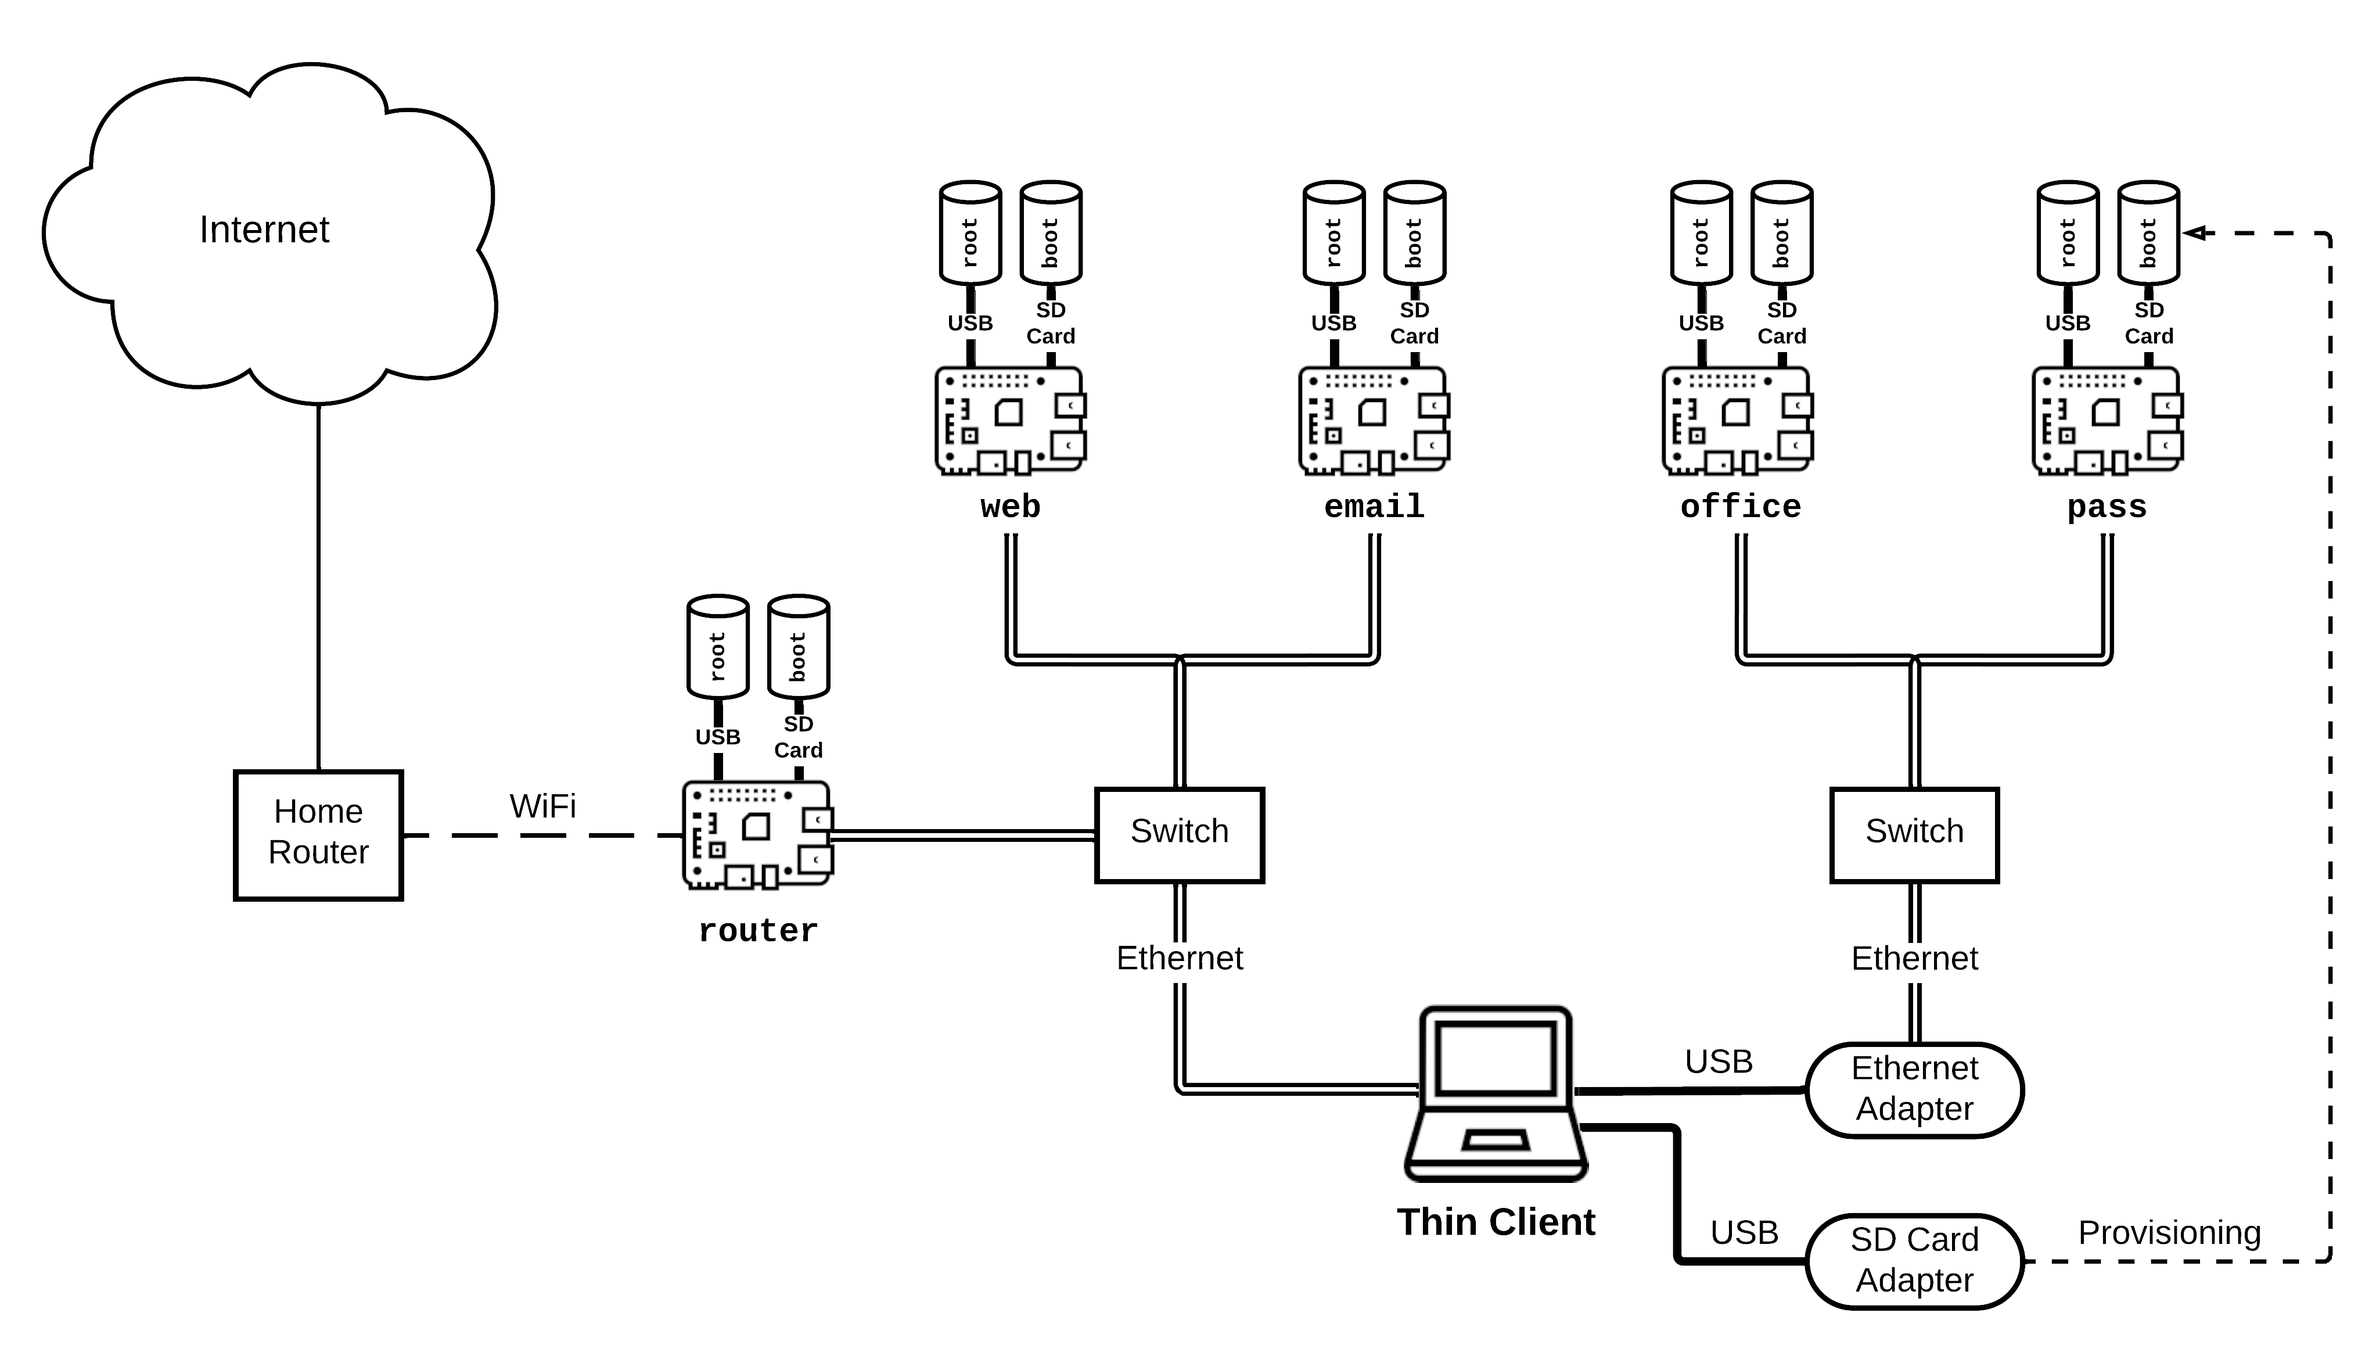
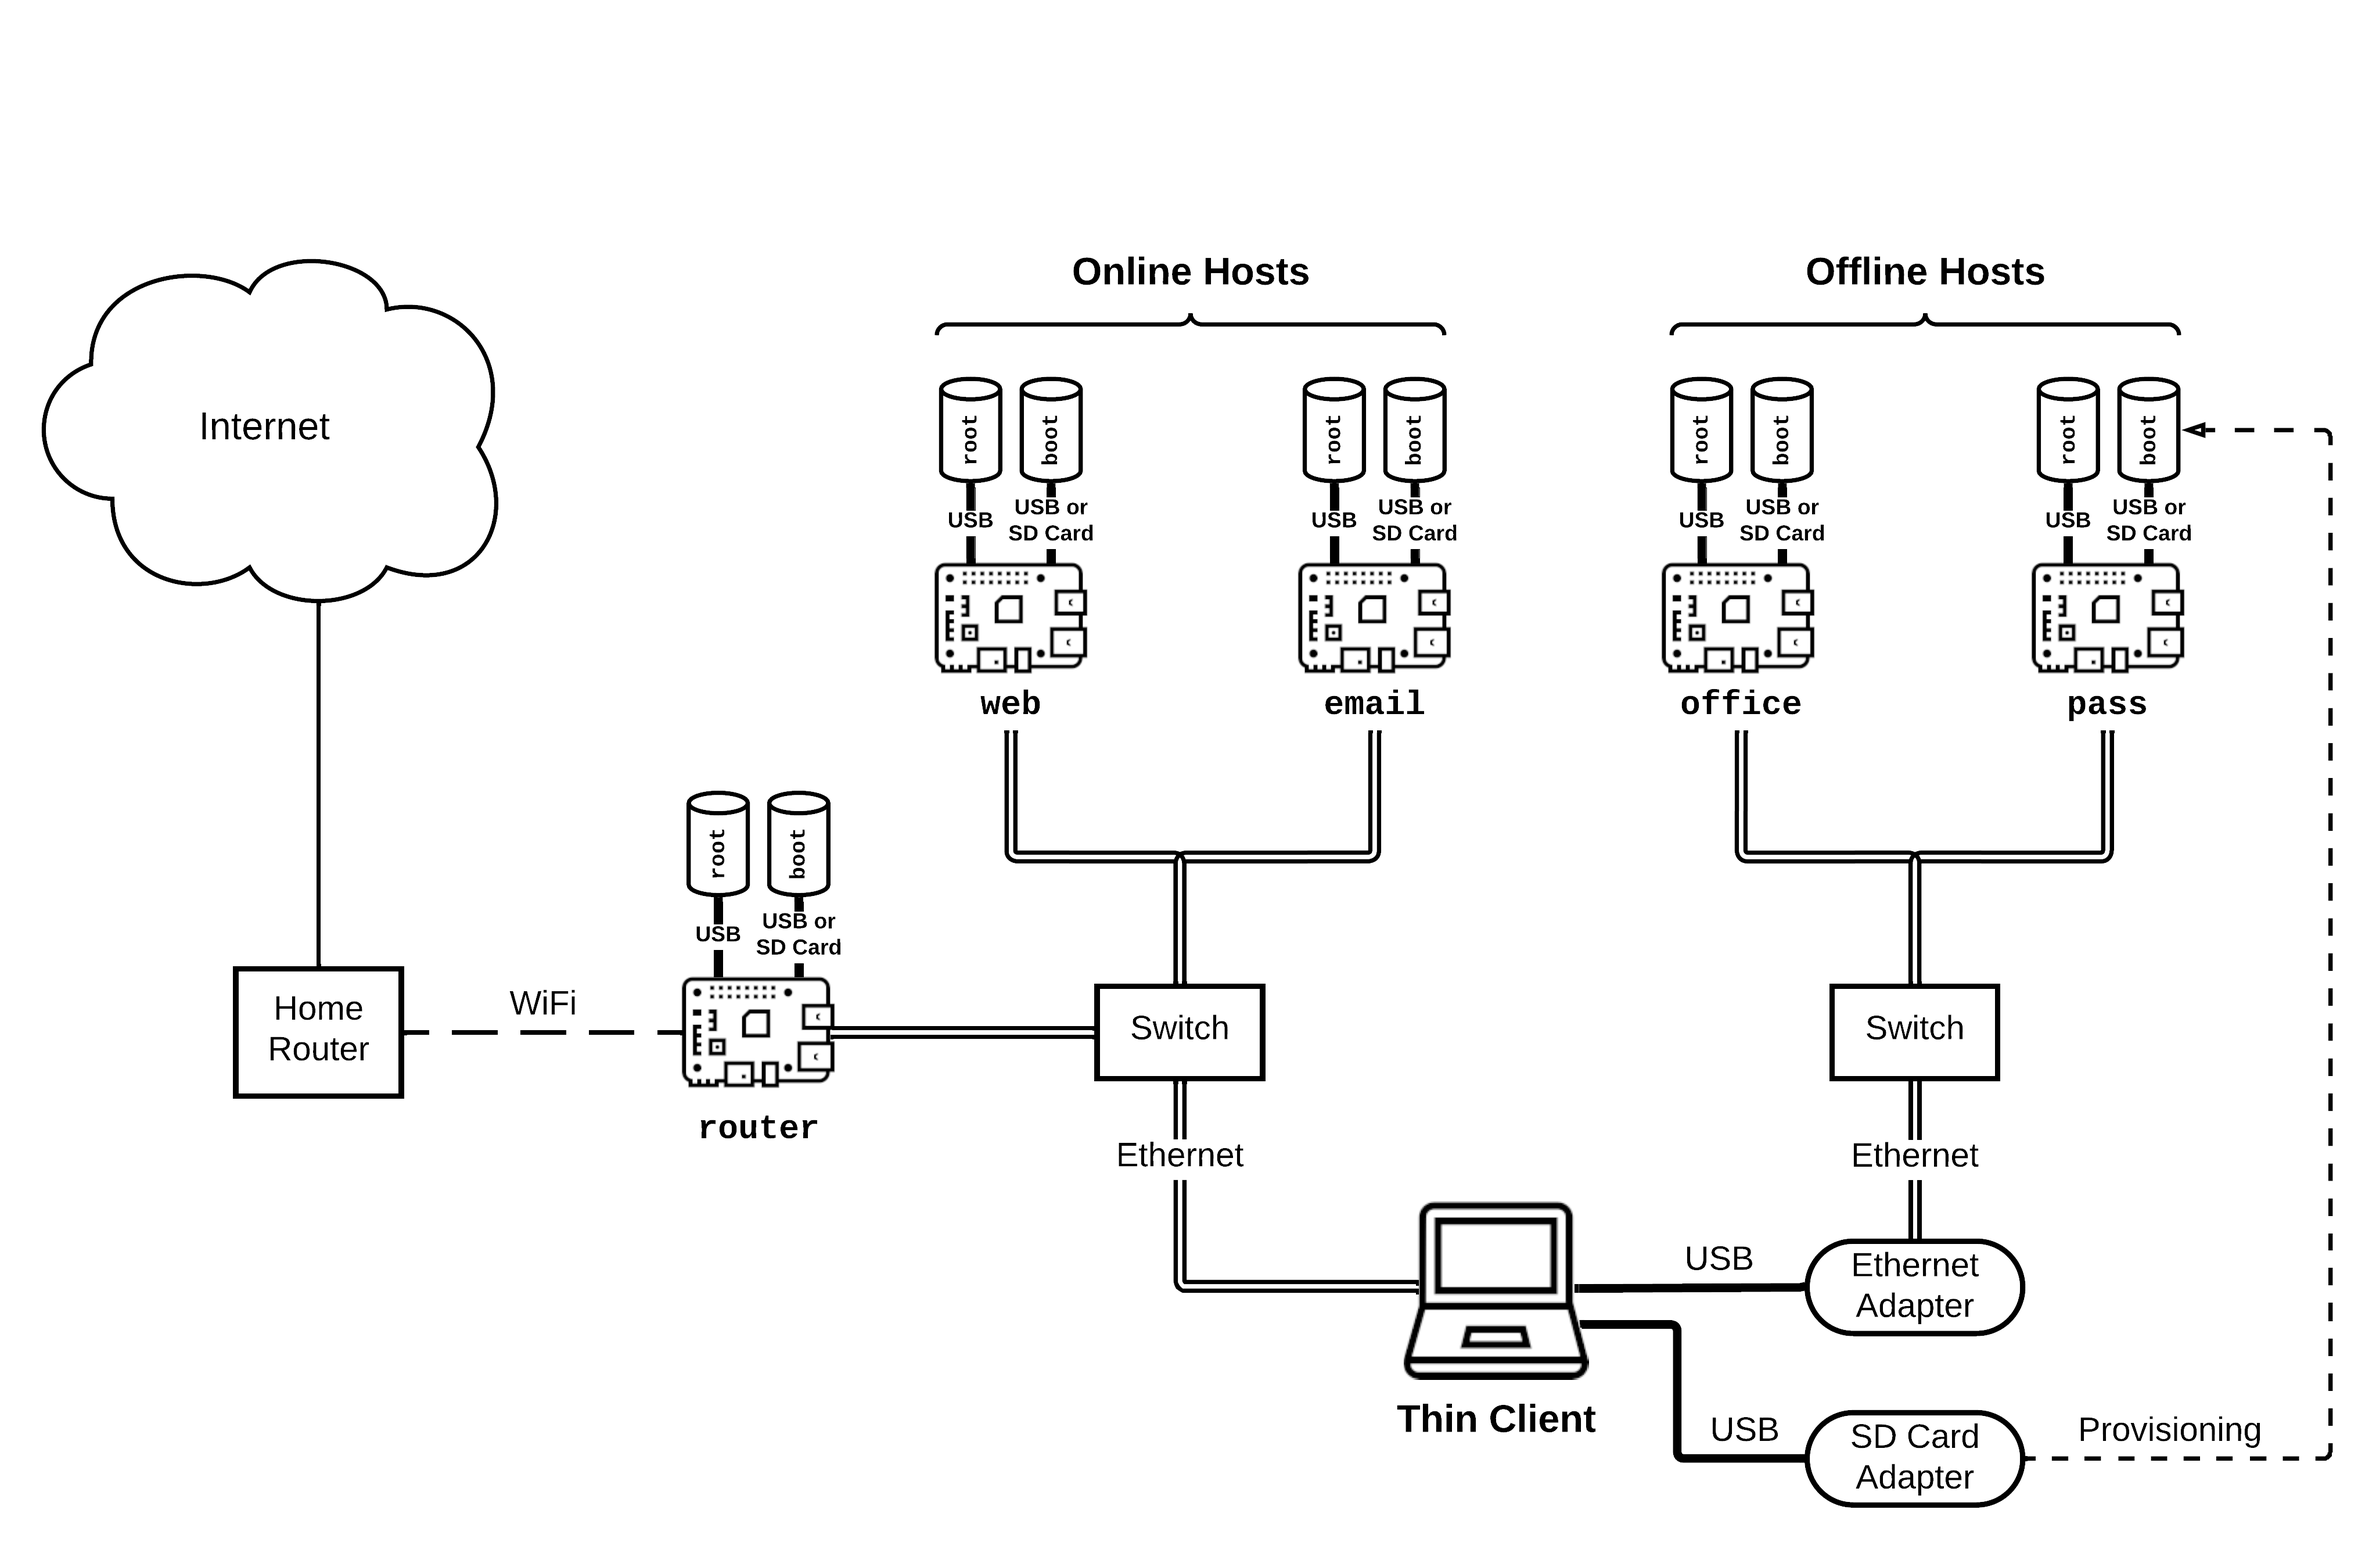
Deployed 20ff6da with MkDocs version: 1.5.3

diff --git a/hardware/index.html b/hardware/index.html
@@ -299,31 +299,64 @@
     <ul class="md-nav__list" data-md-component="toc" data-md-scrollfix>
       
         <li class="md-nav__item">
-  <a href="#thin-client-hardware-recommendations" class="md-nav__link">
-    Thin Client Hardware Recommendations
+  <a href="#thin-client-hardware" class="md-nav__link">
+    Thin Client Hardware
   </a>
   
 </li>
       
         <li class="md-nav__item">
-  <a href="#host-hardware-recommendations" class="md-nav__link">
-    Host Hardware Recommendations
+  <a href="#networking-hardware" class="md-nav__link">
+    Networking Hardware
   </a>
   
-    <nav class="md-nav" aria-label="Host Hardware Recommendations">
+</li>
+      
+        <li class="md-nav__item">
+  <a href="#host-hardware" class="md-nav__link">
+    Host Hardware
+  </a>
+  
+    <nav class="md-nav" aria-label="Host Hardware">
       <ul class="md-nav__list">
+        
+          <li class="md-nav__item">
+  <a href="#compute-module-4-lite" class="md-nav__link">
+    Compute Module 4 Lite
+  </a>
+  
+    <nav class="md-nav" aria-label="Compute Module 4 Lite">
+      <ul class="md-nav__list">
+        
+          <li class="md-nav__item">
+  <a href="#requirements" class="md-nav__link">
+    Requirements
+  </a>
+  
+</li>
+        
+      </ul>
+    </nav>
+  
+</li>
         
           <li class="md-nav__item">
   <a href="#raspberry-pi-4b" class="md-nav__link">
     Raspberry Pi 4B
   </a>
   
-</li>
+    <nav class="md-nav" aria-label="Raspberry Pi 4B">
+      <ul class="md-nav__list">
         
           <li class="md-nav__item">
-  <a href="#compute-module-4-lite" class="md-nav__link">
-    Compute Module 4 Lite
+  <a href="#requirements_1" class="md-nav__link">
+    Requirements
   </a>
+  
+</li>
+        
+      </ul>
+    </nav>
   
 </li>
         
@@ -618,31 +651,64 @@
     <ul class="md-nav__list" data-md-component="toc" data-md-scrollfix>
       
         <li class="md-nav__item">
-  <a href="#thin-client-hardware-recommendations" class="md-nav__link">
-    Thin Client Hardware Recommendations
+  <a href="#thin-client-hardware" class="md-nav__link">
+    Thin Client Hardware
   </a>
   
 </li>
       
         <li class="md-nav__item">
-  <a href="#host-hardware-recommendations" class="md-nav__link">
-    Host Hardware Recommendations
+  <a href="#networking-hardware" class="md-nav__link">
+    Networking Hardware
   </a>
   
-    <nav class="md-nav" aria-label="Host Hardware Recommendations">
+</li>
+      
+        <li class="md-nav__item">
+  <a href="#host-hardware" class="md-nav__link">
+    Host Hardware
+  </a>
+  
+    <nav class="md-nav" aria-label="Host Hardware">
       <ul class="md-nav__list">
+        
+          <li class="md-nav__item">
+  <a href="#compute-module-4-lite" class="md-nav__link">
+    Compute Module 4 Lite
+  </a>
+  
+    <nav class="md-nav" aria-label="Compute Module 4 Lite">
+      <ul class="md-nav__list">
+        
+          <li class="md-nav__item">
+  <a href="#requirements" class="md-nav__link">
+    Requirements
+  </a>
+  
+</li>
+        
+      </ul>
+    </nav>
+  
+</li>
         
           <li class="md-nav__item">
   <a href="#raspberry-pi-4b" class="md-nav__link">
     Raspberry Pi 4B
   </a>
   
-</li>
+    <nav class="md-nav" aria-label="Raspberry Pi 4B">
+      <ul class="md-nav__list">
         
           <li class="md-nav__item">
-  <a href="#compute-module-4-lite" class="md-nav__link">
-    Compute Module 4 Lite
+  <a href="#requirements_1" class="md-nav__link">
+    Requirements
   </a>
+  
+</li>
+        
+      </ul>
+    </nav>
   
 </li>
         
@@ -675,38 +741,38 @@
 
 <h1 id="hardware">Hardware</h1>
 <p>TowerOS is designed to run on a thin client device and several hosts connected <em>via</em> one or two unmanaged Ethernet switches. Two switches are necessary if the user would like to have offline as well as online hosts.</p>
-<p>The thin client is typically a laptop like the Lenovo X270. The thin client should have an SD card reader for provisioning SD cards that the hosts will boot from. (Raspberry Pi 4Bs may be booted directly from USB, however.) The thin client should also have one or two RJ-45 ports, depending on the number of switches in use.</p>
-<h2 id="thin-client-hardware-recommendations">Thin Client Hardware Recommendations</h2>
+<h2 id="thin-client-hardware">Thin Client Hardware</h2>
+<p>The thin client is typically a laptop like the Lenovo X270. The thin client should have an SD card reader for provisioning SD cards that the hosts will boot from if you are using CM4s. (Raspberry Pi 4Bs may be booted from a second USB key, however.) The thin client should also have one or two RJ-45 ports, depending on the number of networks in use.</p>
+<h2 id="networking-hardware">Networking Hardware</h2>
 <ul>
-<li>Lenovo X270 Laptop</li>
+<li>DeskPi Super6C when using Compute Module 4 Lites <em>or</em> Netgear unmanaged switches when using Raspberry Pi 4Bs</li>
 <li>Olimex USB Ethernet Adapter (https://www.olimex.com/Products/USB-Modules/USB-GIGABIT/open-source-hardware)</li>
-<li>USB SD Card reader</li>
-<li>2 Ethernet Cables</li>
+<li>One Ethernet cable per host.</li>
 </ul>
-<h2 id="host-hardware-recommendations">Host Hardware Recommendations</h2>
-<p>TowerOS currently supports two kinds of host hardware: Raspberry Pi 4B and Compute Module 4 Lite (“CM4” for short). Where as Raspberry Pi 4Bs must be connected with standalone switch hardware, CM4 modules may be connected with a board like the DeskPi Super6C, which provides for a much more compact form factor for a complete TowerOS system. CM4 modules may easily use M.2 SSDs as their persistent storage, <em>via</em> a DeskPi Super6C, and they may therefore perform better.</p>
+<h2 id="host-hardware">Host Hardware</h2>
+<p>TowerOS currently supports two kinds of host hardware: Raspberry Pi 4B and Compute Module 4 Lite (“CM4” for short). Whereas Raspberry Pi 4Bs must be connected with standalone switch hardware, CM4 modules may be connected with a board like the DeskPi Super6C, which provides for a much more compact form factor for a complete TowerOS system. CM4 modules may easily use M.2 SSDs as their persistent storage <em>via</em> a DeskPi Super6C, and they should therefore perform much better.</p>
 <p><em>Notes</em>
 - The amount of RAM required for each host is heavily dependent on the intended usage pattern. Generally, at least one host should have 8GB of RAM, to run a web browser. For the router host, we recommend having at least 2GB of RAM.
 - Different SD cards and USB keys may have very different performance characteristics. In general, USB keys are much faster than SD cards, and M.2 SSDs are faster still.</p>
-<h3 id="raspberry-pi-4b">Raspberry Pi 4B</h3>
-<p><img alt="Diagram - RPi" src="../img/diagram-rpi.png" /></p>
-<ul>
-<li>Raspberry Pis may be booted either from an SD card or a USB key. For best performance, the root partition should reside on a USB key. You will need at least one SD card or USB key per host.</li>
-<li>The USB key should ideally be plugged into the blue USB port, which supports USB 3.0.</li>
-<li>If you wish to have offline hosts, then you need two switches; otherwise, one will do.</li>
-<li>If you are using a PoE switch, you will need one PoE hat per host; if not, a USB hub may be used for power delivery</li>
-<li>You will need one RJ-45 cable per host.</li>
-<li>You will need one RTC Clock hat for each offline host.</li>
-</ul>
 <h3 id="compute-module-4-lite">Compute Module 4 Lite</h3>
 <p><img alt="Diagram - CM4" src="../img/diagram-cm4.png" /></p>
-<p>Using CM4s and the <a href="https://deskpi.com/collections/deskpi-super6c/products/deskpi-super6c-raspberry-pi-cm4-cluster-mini-itx-board-6-rpi-cm4-supported">DeskPi Super6C Board</a> you can avoid most cables and put all your hosts in a single mini-ITX case.</p>
+<p>Using CM4s and the <a href="https://deskpi.com/collections/deskpi-super6c/products/deskpi-super6c-raspberry-pi-cm4-cluster-mini-itx-board-6-rpi-cm4-supported">DeskPi Super6C Board</a> you can avoid most cables and put all your hosts in a single mini-ITX case. This setup is <strong>more performant, more affordable and more compact</strong>. However, it is also more difficult to debug: the DeskPi only provides USB and HDMI access to slot #1 on the board, and hosts cannot be power cycled individually. To support both online and offline hosts, two independent DeskPi Super6s should be used; otherwise, a single DeskPi will support five online hosts plus the router.</p>
+<h4 id="requirements">Requirements</h4>
 <ul>
 <li>Only the CM4 <em>Lite</em> is supported.</li>
-<li>Only the CM4 Lite module used for the router must have on-board WiFi; the others may be entirely wireless.</li>
+<li>Only the CM4 Lite module used for the router must have on-board WiFi (the others may be entirely wireless).</li>
 <li>CM4s must be booted from an SD card, which will hold the boot partition.</li>
-<li>CM4s must use an M.2 SSD for the root partition (which also should be highly performant).</li>
-<li>To support both online and offline hosts, two independent DeskPi Super6s may be used.</li>
+<li>Accordingly, you must have an SD Card reader for the thin client.</li>
+<li>CM4s must use an M.2 SSD for the root partition.</li>
+</ul>
+<h3 id="raspberry-pi-4b">Raspberry Pi 4B</h3>
+<p><img alt="Diagram - RPi" src="../img/diagram-rpi.png" /></p>
+<p>Using standard Raspberry Pi 4Bs for your system is most appropriate if it does not need to be portable, because of the additional bulk of the Raspberry Pi form factor. If you wish to support offline hosts, then you need two unmanaged switches; otherwise, one will do.</p>
+<h4 id="requirements_1">Requirements</h4>
+<ul>
+<li>You will need either two USB keys, or one USB key and one SD card per host. (For best performance, the root partition should reside on a fast USB key, which should be plugged into the blue USB 3.0 port.)</li>
+<li>If you are using a PoE switch, you will need one PoE hat per host; if not, a USB hub may be used for power delivery.</li>
+<li>You will need one RTC Clock hat for each offline host.</li>
 </ul>
 <h2 id="hardware-for-debugging">Hardware for Debugging</h2>
 <ul>

diff --git a/security/index.html b/security/index.html
@@ -410,6 +410,13 @@
 </li>
       
         <li class="md-nav__item">
+  <a href="#operating-system" class="md-nav__link">
+    Operating System
+  </a>
+  
+</li>
+      
+        <li class="md-nav__item">
   <a href="#trusted-computing-base" class="md-nav__link">
     Trusted Computing Base
   </a>
@@ -599,6 +606,13 @@
 </li>
       
         <li class="md-nav__item">
+  <a href="#operating-system" class="md-nav__link">
+    Operating System
+  </a>
+  
+</li>
+      
+        <li class="md-nav__item">
   <a href="#trusted-computing-base" class="md-nav__link">
     Trusted Computing Base
   </a>
@@ -631,12 +645,19 @@
 
 <h2 id="security-model">Security Model</h2>
 <ul>
-<li>Direct communication between Hosts is forbidden.</li>
-<li>All communication between the Thin Client and a Host is over SSH and on port 22.</li>
-<li>All communication with a Host must originate with the Thin Client.</li>
-<li>All network connections between the Thin Client and a Host must be directly triggered by user action.</li>
-<li>SSH tunnels from the Thin Client or a Host through the Router are allowed.</li>
+<li>Direct communication between hosts is forbidden.</li>
+<li>Incoming connections to the thin client are forbidden.</li>
+<li>All communication with a host must originate with the thin client and be:<ul>
+<li>over SSH,</li>
+<li>on port 22, and</li>
+<li><em>via</em> Ethernet.</li>
 </ul>
+</li>
+<li>All communication between the thin client and a host must be directly triggered by user action.</li>
+<li>SSH tunnels from the thin client or an online host to the Internet, through the router, are allowed.</li>
+</ul>
+<h2 id="operating-system">Operating System</h2>
+<p>In general, operating system configuration is outside the scope of TowerOS's responsibilities; TowerOS does attempt to be <em>secure by default</em>, however. Of course, the core architecture of TowerOS is designed to mitigate the severity of any compromise of a host. For information on how best to securing your thin client and hosts at the level of the operating system, please see this <a href="https://madaidans-insecurities.github.io/guides/linux-hardening.html">Linux Hardening Guide</a>.</p>
 <h2 id="trusted-computing-base">Trusted Computing Base</h2>
 <ul>
 <li>TowerOS Tooling</li>

diff --git a/implementation/index.html b/implementation/index.html
@@ -891,7 +891,7 @@ The script starts by checking for the existence of a <code>./dist</code>, <code>
 <ol>
 <li>Gereate a key pair.</li>
 <li>Generate the host configuration (<code>tower.env</code>) with the values provided on the command line or with those retrieved from the thin client</li>
-<li>Copy of the TowerOS thin client image onto the SD card and incclude the configuration file</li>
+<li>Copy of the TowerOS thin client image onto the SD card and include the configuration file</li>
 <li>Wait for the new host to be detected on the network after the user has inserted the SD card into the host device</li>
 <li>Update the <code>ssh</code> and <code>toweros</code> configuration files</li>
 </ol>
